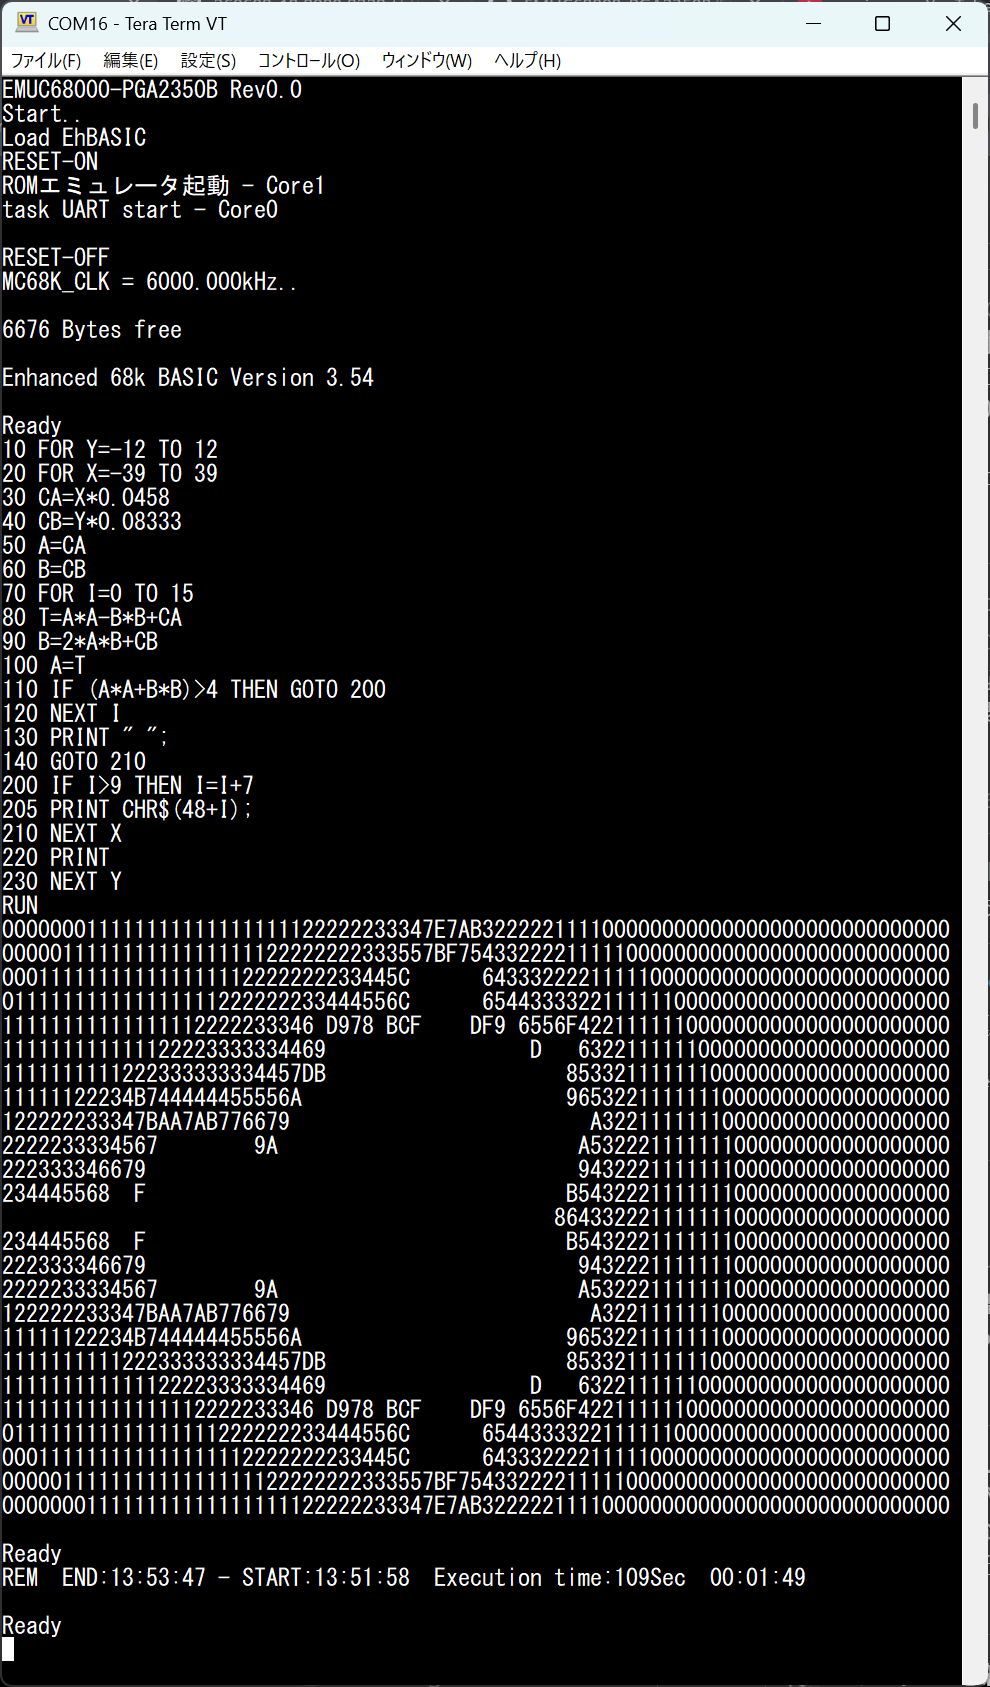
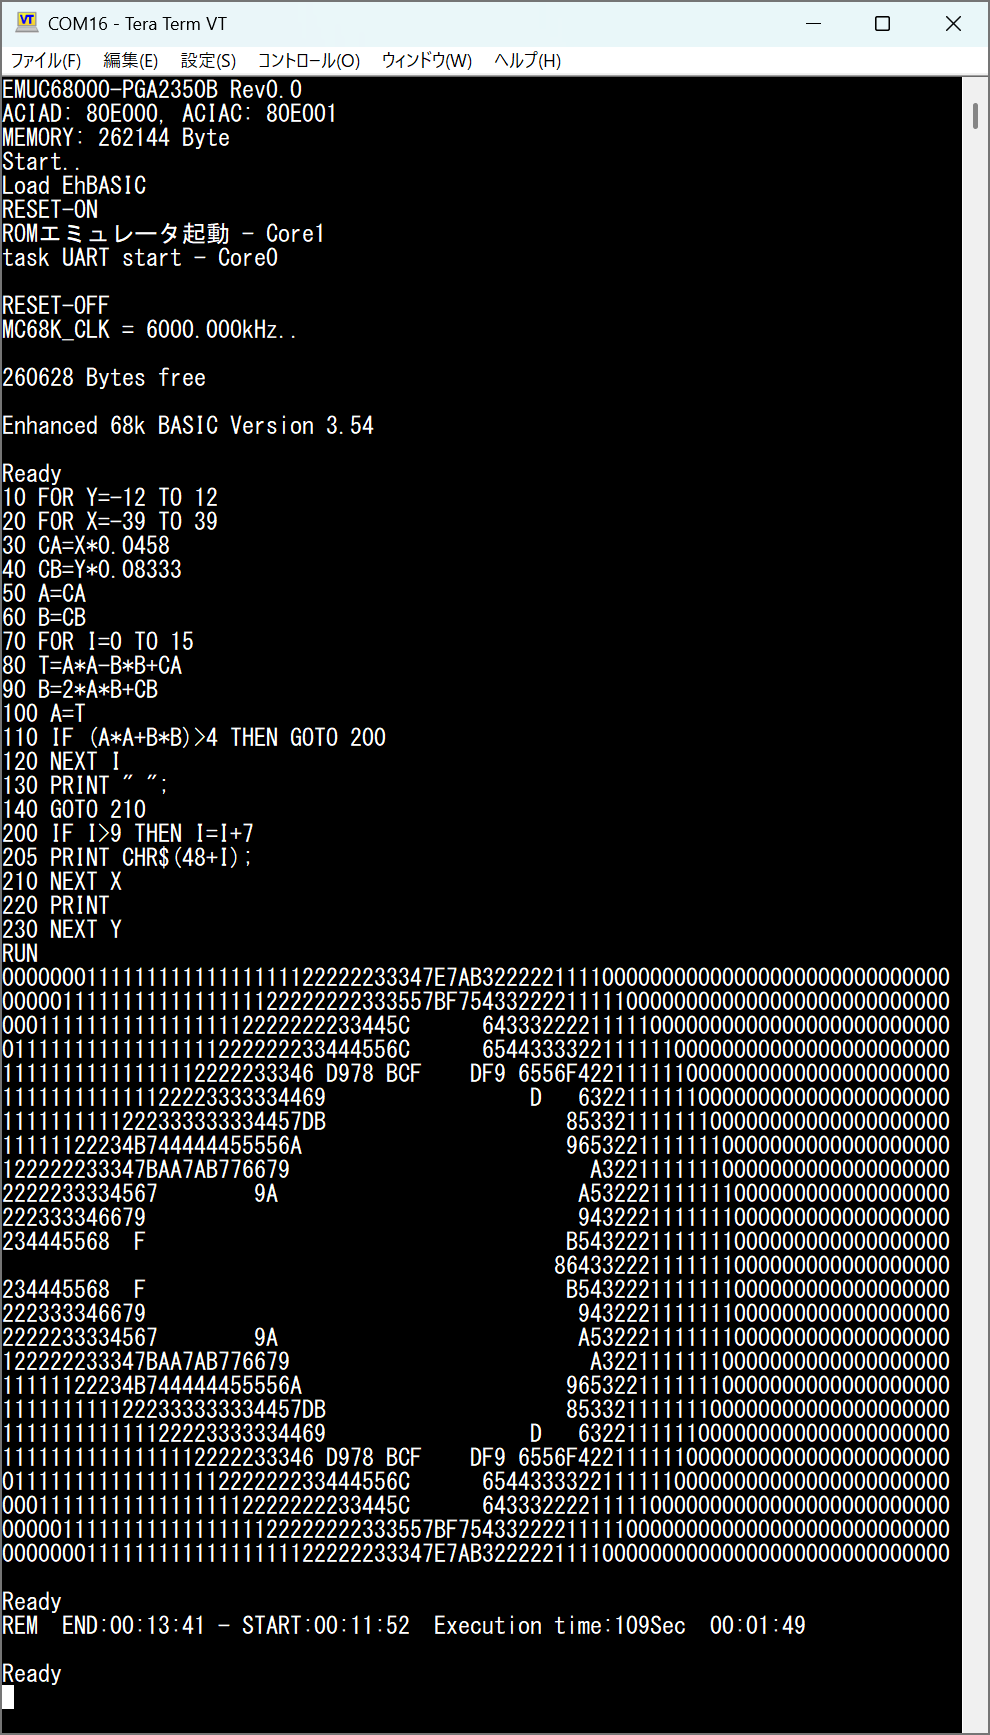
update README.md

Changed region(s): [[0.0, 0.0, 0.9697, 1.0], [0.9697, 0.0, 1.0, 0.0616], [0.9697, 0.9864, 1.0, 1.0]]

diff --git a/README.md b/README.md
@@ -3,6 +3,30 @@
 MC68000 を Pimoroni PGA2350 で動作させるための暫定プロジェクトです。
 動作確認や仕様が不十分な場合があります。
 
+### MC68000 RAM 256KB版 (2026/11/15)
+- MC68000 メモリエリア 8KByte -> 256KByte へ拡大
+- ACIAアドレス E000 -> 80E000 へ変更
+- EhBASIC(ebasic.c) は バイナリにパッチを当てて対応。
+
+#### EhBASIC RAMエリア変更
+```
+RAMサイズ変更
+アドレス	内容	備考
+$010C	20 3C 00 00 20 00	MOVE.L #ram_size, D0
+  ($010E〜 即値部分 00 00 20 00 で8KB → 00 04 00 00 で256KB)
+
+```
+
+#### EhBASIC ACIAアドレス変更
+```
+ACIAアドレス変更（$E000 -> $80E000）
+アドレス    現在            変更後          意味
+$00C4   00 00 E0 01  ->  80 00 E0 01  ( ACIAC -> $80E001 )
+$00D2	00 00 E0 00	 ->  80 00 E0 00  ( ACIAD -> $80E000 )
+$00DA	00 00 E0 01	 ->  80 00 E0 01  ( ACIAC -> $80E001 )
+$00E6	00 00 E0 00	 ->  80 00 E0 00  ( ACIAD -> $80E000 )
+```
+
 ## 画像
 
 ![img2](./img/img2.jpg)
